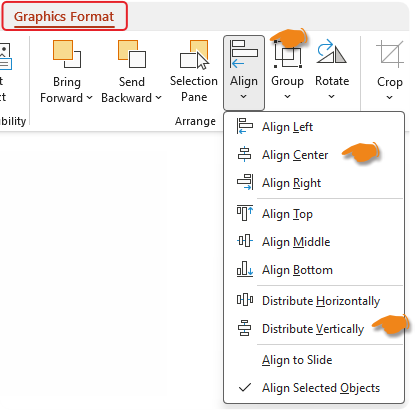
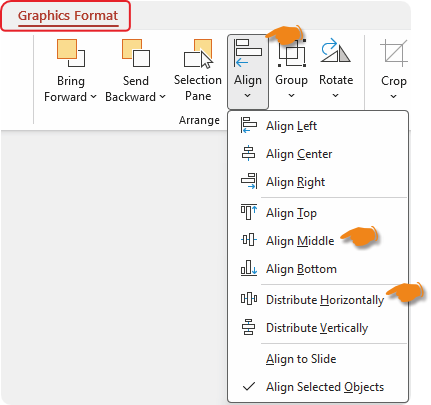
M

Changed region(s): [[0.4062, 0.0593, 1.0, 1.0], [0.0, 0.0, 0.375, 0.3259]]

diff --git a/materi-powerpoint.html b/materi-powerpoint.html
@@ -413,8 +413,8 @@
                                   </li>
                                   <li>Tab <strong>Insert</strong> → <strong>Text Box</strong>
                                     <ul>
-                                      <li>Nama : Andi Pratama  (font besar 18 pt).</li>
-                                      <li>Kelas : Peserta Kursus Office  (font besar 18 pt).</li>
+                                      <li>Nama : Andi Pratama (font besar 18 pt).</li>
+                                      <li>Kelas : Peserta Kursus Office (font besar 18 pt).</li>
                                     </ul>
                                   </li>
                                   <li>
@@ -488,29 +488,92 @@
                               </div>
                             </div>
                           </li>
-                          
+
                           <li class="mb-3">
                             <strong>Slide 3 — Hobi &amp; Minat:</strong>
-                            <div class="row">
+
+                            <div class="row mb-3">
                               <div class="col-md-6">
-                                <ul class="list-unstyled">
+                                <ul>
                                   <li>
                                     Klik <strong>Home</strong> →
                                     <strong>New Slide</strong>.
                                   </li>
                                   <li>
                                     Pilih layout
-                                    <strong>Title Only</strong> → judul:
-                                    "Hobi &amp; Minat", font 36-40 pt.
+                                    <strong>Title Only</strong>
                                     <div class="my-3">
                                       <img src="assets/img/Title-and-Content.png" alt=""
                                         class="img-fluid shadow rounded">
                                     </div>
+                                    Judul:
+                                    "<strong>Hobi &amp; Minat</strong>", font 36-40 pt.
                                   </li>
+                                </ul>
+                              </div>
+                              <div class="col-md-6">
+                                <div class="my-3">
+                                  <img src="assets/img/Presentasi_Diri/Slide3.PNG" alt=""
+                                    class="img-fluid shadow rounded">
+                                </div>
+                              </div>
+                            </div><!-- /row -->
+
+                            <div class="row">
+                              <div class="col-md-6">
+                                <ul>
+                                  <li>Klik <strong>Insert</strong> → <strong>Icons</strong>.
+                                    <div class="my-3">
+                                      <img src="assets/img/Insert-Icons.png" alt="" class="img-fluid shadow rounded">
+                                    </div>
+                                    Pada kotak pencarian, cari:
+                                    <ul class="list-unstyled">
+                                      <li><i class="bi bi-search"></i> Music</li>
+                                      <li><i class="bi bi-search"></i> Sport</li>
+                                      <li><i class="bi bi-search"></i> Book</li>
+                                    </ul>
+                                    <div class="my-3">
+                                      <img src="assets/img/stock-images.png" alt="" class="img-fluid shadow rounded">
+                                    </div>
+                                    Pilih beberapa ikon dan Klik <strong>Insert</strong>.
+                                  </li>
+                                </ul>
+                              </div>
+                              <div class="col-md-6">
+                                Atur posisi ikon berjajar secara horizontal dengan cara <br>
+                                    Pilih atau seleksi ketiga icon.
+                                    <div class="my-3">
+                                      <img src="assets/img/3icon.png" alt="" class="img-fluid shadow rounded">
+                                    </div>
+                                    Pada Tab <strong>Graphics Format</strong> → Klik <strong>Align</strong> → pilih
+                                    <strong>Align Middle</strong> dan <strong>Distribute Horizontally</strong>.
+                                    <div class="my-3">
+                                      <img src="assets/img/Align.png" alt="" class="img-fluid shadow rounded">
+                                    </div>
+                              </div>
+                            </div><!-- /row -->
+
+                            <div class="row">
+                              <div class="col-md-6">
+                                <ul class="list-unstyled">
+                                  <!-- <li>
+                                    Klik <strong>Home</strong> →
+                                    <strong>New Slide</strong>.
+                                  </li>
+                                  <li>
+                                    Pilih layout
+                                    <strong>Title Only</strong>
+                                    <div class="my-3">
+                                      <img src="assets/img/Title-and-Content.png" alt=""
+                                        class="img-fluid shadow rounded">
+                                    </div>
+                                    Judul:
+                                    "<strong>Hobi &amp; Minat</strong>", font 36-40 pt.
+                                  </li> -->
                                   <li>
                                     Tambahkan Ikon:
                                     <ul class="list-unstyled">
-                                      <li>Klik <strong>Insert</strong> → <strong>Icons</strong>.
+                                      <!-- <li>Klik <strong>Insert</strong> → <strong>Icons</strong>.
                                         <div class="my-3">
                                           <img src="assets/img/Insert-Icons.png" alt=""
                                             class="img-fluid shadow rounded">
@@ -526,9 +589,9 @@
                                             class="img-fluid shadow rounded">
                                         </div>
                                         Pilih beberapa ikon dan Klik <strong>Insert</strong>.
-                                      </li>
+                                      </li> -->
                                     </ul>
-                                    Atur posisi ikon berjajar secara horizontal dengan cara <br>
+                                    <!-- Atur posisi ikon berjajar secara horizontal dengan cara <br>
                                     Pilih atau seleksi ketiga icon.
                                     <div class="my-3">
                                       <img src="assets/img/3icon.png" alt="" class="img-fluid shadow rounded">
@@ -537,7 +600,7 @@
                                     <strong>Align Middle</strong> dan <strong>Distribute Horizontally</strong>.
                                     <div class="my-3">
                                       <img src="assets/img/Align.png" alt="" class="img-fluid shadow rounded">
-                                    </div>
+                                    </div> -->
                                   </li>
                                   <li>
                                     Untuk mengubah warna ikon: Pilih ikon → Tab <strong>Graphics Format</strong> →
@@ -589,8 +652,7 @@
                                 </ul>
                               </div>
                               <div class="col-md-6">
-                                <img src="assets/img/Presentasi_Diri/Slide3.PNG" alt=""
-                                  class="img-fluid shadow rounded">
+
                               </div>
                             </div>
                           </li>
